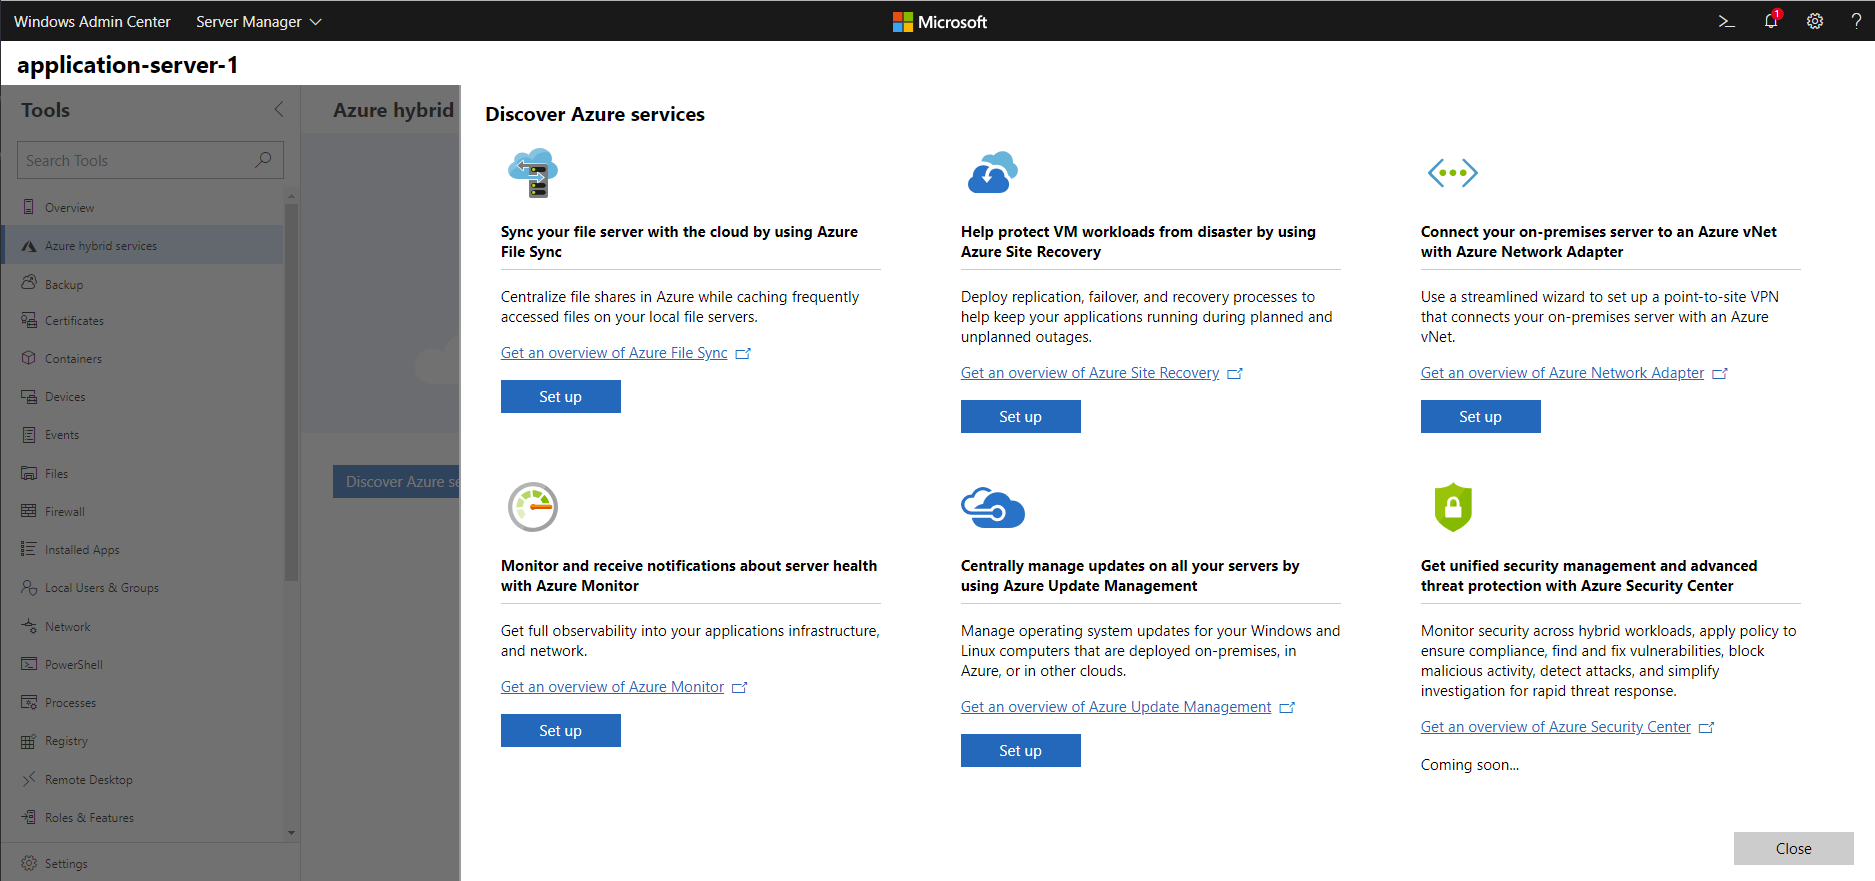
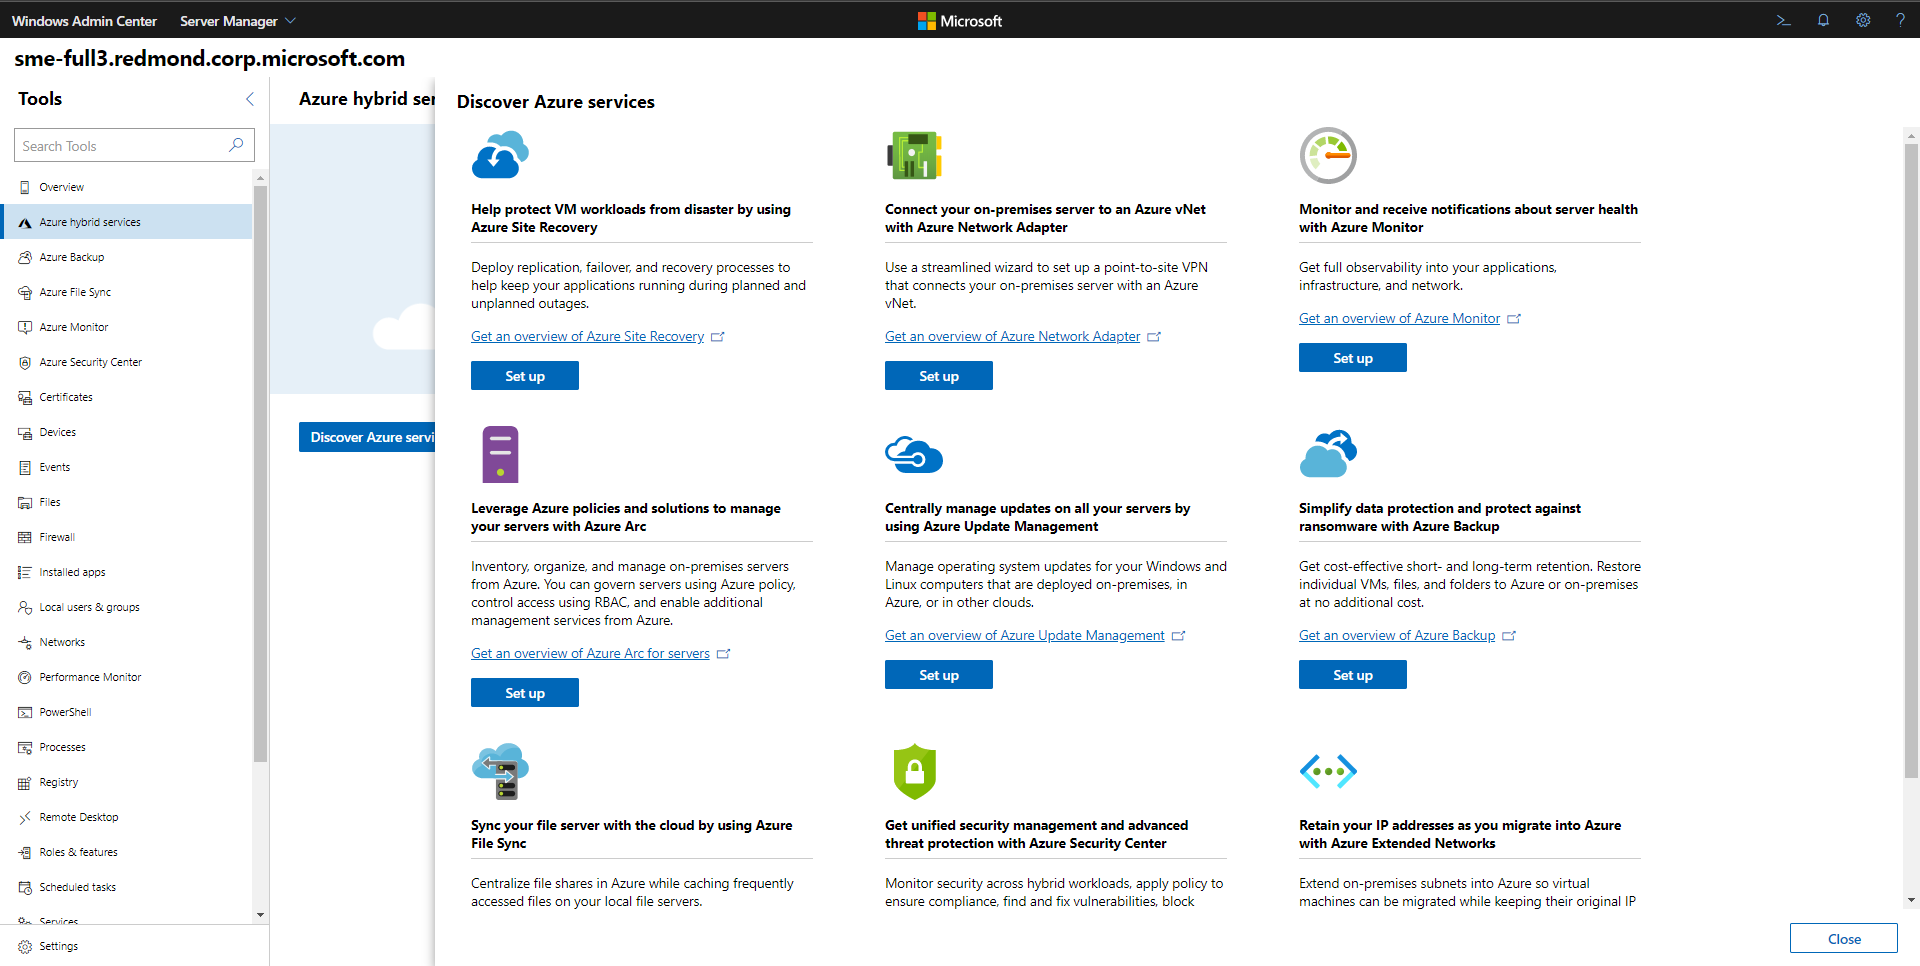
refactored Azure hybrid services page to include new features and restructure. Added details about AAD app permissions needed

diff --git a/WindowsServerDocs/manage/windows-admin-center/azure/index.md b/WindowsServerDocs/manage/windows-admin-center/azure/index.md
@@ -11,81 +11,138 @@ ms.date: 04/12/2019
 ---
 # Connecting Windows Server to Azure hybrid services
 
->Applies to: Windows Server 2019, Windows Server 2016
+You can extend on-premises deployments of Windows Server to the cloud by using Azure hybrid services. These cloud services provide an array of useful functions, both for extending on-premises into Azure, and for centrally managing from Azure.
 
-You can extend on-premises deployments of Windows Server to the cloud by using Azure hybrid services. These cloud services provide an array of useful functions, including the following:
+![Diagram showing arrow from on-premises to cloud for extending on-premises into Azure, and arrow from cloud to on-premises for managing centrally with Azure](../media/azure-services/hybrid-framing.png)
 
-- Protect virtual machines and use cloud-based backup and disaster recovery (HA/DR) with Azure Site Recovery. 
-- Track what’s happening across your applications, network and infrastructure with the help of advanced analytics and machine learning in Azure Monitor. 
-- Simplify network connectivity to Azure with Azure Network Adapter.
-- Keep virtual machines up to date with Azure Update Management.
+Using Azure hybrid services within Windows Admin Center, you can:
 
-Azure hybrid services work with Windows Servers in the following configurations:
+- [Protect virtual machines and use cloud-based backup and disaster recovery (HA/DR)](#back-up-and-protect-your-on-premises-servers-and-vms).  
+- [Extend on-premises capacity with storage and compute in Azure, and simplify network connectivity to Azure](#extend-on-premises-capacity-with-azure).
+- [Centralize monitoring, governance, configuration, and security across your applications, network, and infrastructure with the help of cloud-intelligent Azure management services](#centrally-manage-your-hybrid-environment-from-azure).  
 
-- Stand-alone physical servers and virtual machines (VMs)
-- Clusters, including hyper-converged clusters certified by the [Azure Stack HCI](../../../azure-stack-hci/index.md), and [Windows Server Software-Defined (WSSD)](https://www.microsoft.com/en-us/cloud-platform/software-defined-datacenter) programs
+While you can set up most Azure hybrid services using the Azure portal, a download, and manual configuration, many are integrated directly into Windows Admin Center to provide a simplified setup experience and a server-centric view of the services. Windows Admin Center also provides convenient intelligent hyperlinks to the Azure portal to see connected Azure resources as well as a centralized view of your hybrid environment.
 
-While you can set up most Azure hybrid services using the Azure portal and a download or two, many are integrated directly into Windows Admin Center to provide a simplified setup experience and a server-centric view of the services.
+## Discover integrated services in the Azure hybrid services tool
 
-## Azure hybrid services tool
-
-The Azure hybrid services tool in [Windows Admin Center](../understand/windows-admin-center.md) consolidates all the integrated Azure services into a centralized hub where you can easily discover all the available Azure services that bring value to your on-premises or hybrid environment. 
+The Azure hybrid services tool in [Windows Admin Center](../understand/windows-admin-center.md) consolidates all the integrated Azure services into a centralized hub where you can easily discover all the available Azure services that bring value to your on-premises or hybrid environment.  
 
 ![Screenshot of Windows Admin Center showing the Azure Hybrid Services tool](../media/azure-services/ahs-discover.png)
 
-If you connect to a server with Azure services already enabled, the Azure hybrid services tool serves as a single pane of glass to see all enabled services on that server. You can easily get to the relevant tool within Windows Admin Center, launch out to the Azure portal for deeper management of those Azure services, or read more with documentation at your fingertips. 
+If you connect to a server with Azure services already enabled, the Azure hybrid services tool serves as a single pane of glass to see all enabled services on that server. You can easily get to the relevant tool within Windows Admin Center, launch out to the Azure portal for deeper management of those Azure services, or read more with documentation at your fingertips.  
 
 ![Screenshot of Windows Admin Center showing Azure services that are already installed on the server](../media/azure-services/ahs-dayN.png)
 
 From the Azure hybrid services tool, you can:
+
 - Backup your Windows Server from Windows Admin Center with [Azure Backup](azure-backup.md)
 - Protect your Hyper-V Virtual Machines from Windows Admin Center with [Azure Site Recovery](azure-site-recovery.md)
 - Sync your file server with the cloud, using [Azure File Sync](azure-file-sync.md)
 - Manage operating system updates for all your Windows servers, both on-premises or in the cloud, with [Azure Update Management](azure-update-management.md)
 - Monitor servers, both on-premises or in the cloud, and configure alerts with [Azure Monitor](azure-monitor.md)
+- Apply governance policies to your on-premises servers through Azure Policy using [Azure Arc for servers](https://docs.microsoft.com/azure/azure-arc/servers/overview)
+- Secure your servers and get advanced threat protection with [Azure Security Center](https://docs.microsoft.com/azure/security-center/windows-admin-center-integration)
 - Connect your on-premises servers to an Azure Virtual Network with [Azure Network Adapter](https://aka.ms/WACNetworkAdapter)
+- Make Azure VMs look like your on-premises network with [Azure Extended Network](https://go.microsoft.com/fwlink/?linkid=2109517&clcid=0x409)
 
-## Services for stand-alone servers and VMs
-
-This is the complete list of Azure services that provide functionality to stand-alone servers and VMs:
-
-- **(New) Sync your file server with the cloud by using [Azure File Sync](https://aka.ms/afs)**  
-Sync files on this server with Azure file shares. Keep all your files local or use cloud tiering and cache only the most frequently used files on the server, tiering cold data to the cloud. Data in the cloud can be backed up, eliminating the need to worry about on-premises server backup. Additionally, multi-site-sync can keep a set of files in sync across multiple servers.
-
-- **Add an layer of security to Windows Admin Center by adding [Azure Active Directory (Azure AD)](https://azure.microsoft.com/services/active-directory/) authentication**  
-You can add an additional layer of security to Windows Admin Center by requiring users to authenticate using Azure Active Directory (Azure AD) identities to access the gateway. Azure AD authentication also lets you take advantage of Azure AD’s security features like conditional access and multi-factor authentication.  
-For more info, see [Configure Azure AD authentication for Windows Admin Center.](../configure/user-access-control.md#azure-active-directory)  
-
-- **Protect your Hyper-V virtual machines with [Azure Site Recovery](https://docs.microsoft.com/azure/site-recovery/site-recovery-overview)**  
-You can replicate workloads running on VMs so that your business-critical infrastructure is protected in case of a disaster. Windows Admin Center streamlines setup and the process of replicating your virtual machines on your Hyper-V servers or clusters, making it easier to bolster the resiliency of your environment with Azure Site Recovery’s disaster recovery service.  
-For more info, see [Protect your VMs with Azure Site Recovery and Windows Admin Center](azure-site-recovery.md).
+## Back up and protect your on-premises servers and VMs
 
 - **Back up your Windows servers with [Azure Backup](https://docs.microsoft.com/azure/backup/backup-overview)**  
 You can back up your Windows servers to Azure, helping to protect you from accidental or malicious deletions, corruption, and ransomware.  
 For more info, see [Back up your servers with Azure Backup](azure-backup.md).
 
+- **Protect your Hyper-V virtual machines with [Azure Site Recovery](https://docs.microsoft.com/azure/site-recovery/site-recovery-overview)**  
+You can replicate workloads running on VMs so that your business-critical infrastructure is protected in case of a disaster. Windows Admin Center streamlines setup and the process of replicating your virtual machines on your Hyper-V servers or clusters, making it easier to bolster the resiliency of your environment with Azure Site Recovery’s disaster recovery service.  
+For more info, see [Protect your VMs with Azure Site Recovery and Windows Admin Center](azure-site-recovery.md).
+
+- **Use synchronous or asynchronous block-based replication to a VM in Azure using [Storage Replica](https://docs.microsoft.com/windows-server/storage/storage-replica/storage-replica-overview)**  
+You can configure block-based or volume-based replication on a server-to-server level using Storage Replica to a secondary server or VM. Windows Admin Center allows you to create an Azure VM specifically for your replication target, helping you to right-size and correctly configure storage on a new Azure VM.  
+For more info, see [Server-to-server replication with Storage Replica](https://docs.microsoft.com/windows-server/storage/storage-replica/storage-replica-ui).  
+
+## Extend on-premises capacity with Azure
+
+### Extend storage capacity
+
+- **Sync your file server with the cloud by using [Azure File Sync](https://aka.ms/afs)**  
+Sync files on this server with Azure file shares. Keep all your files local or use cloud tiering to free up space and cache only the most frequently used files on the server, tiering cold data to the cloud. Data in the cloud can be backed up, eliminating the need to worry about on-premises server backup. Additionally, multi-site-sync can keep a set of files in sync across multiple servers.
+For more info, see [Sync your file server with the cloud by using Azure File Sync](azure-file-sync.md).
+
+- **Migrate storage to a VM in Azure using [Storage Migration Service](https://docs.microsoft.com/windows-server/storage/storage-migration-service/overview)**  
+Use the step-by-step tool to inventory data on Windows and Linux servers and then transfer the data to a new Azure VM. Windows Admin Center can create a new Azure VM for the job that is right-sized and correctly configured to receive the data from your source server.  
+For more info, see [Use Storage Migration Service to migrate a server](https://docs.microsoft.com/windows-server/storage/storage-migration-service/migrate-data).
+
+### Extend compute capacity
+
+- **Create a new Azure virtual machine without leaving Windows Admin Center**  
+From the *All Connections* page within Windows Admin Center, go to **Add** and select **Create new** under **Azure VM**. You can even domain-join your Azure VM and configure storage from within this step-by-step creation tool.
+
+- **Leverage Azure to achieve quorum on your failover cluster with [Cloud Witness](https://docs.microsoft.com/windows-server/failover-clustering/deploy-cloud-witness)**  
+Instead of investing in additional hardware to achieve quorum on a 2-node cluster, you can use an Azure storage account to serve as the cluster witness for your failover cluster, or Azure Stack HCI cluster.  
+For more info, see [Deploy a Cloud Witness for a Failover Cluster](https://docs.microsoft.com/windows-server/failover-clustering/deploy-cloud-witness).  
+
+### Simplify network connectivity between your on-premises and Azure networks
+
+- **Connect your on-premises servers to an Azure Virtual Network with [Azure Network Adapter](https://aka.ms/WACNetworkAdapter)**  
+Let Windows Admin Center simplify the setup of a point-to-site VPN from an on-premises server into an Azure virtual network.  
+
+- **Make Azure VMs look like your on-premises network with [Azure Extended Network](https://go.microsoft.com/fwlink/?linkid=2109517&clcid=0x409)**  
+Windows Admin Center can set up a site-to-site VPN and extend your on-premises IP addresses into your Azure vNet to let you more easily migrate workloads into Azure without breaking dependencies on IP addresses.
+
+## Centrally manage your hybrid environment from Azure
+
 - **Monitor and get email alerts for all the servers in your environment with [Azure Monitor for Virtual Machines](https://docs.microsoft.com/azure/azure-monitor/insights/vminsights-overview)**  
-You can use Azure Monitor, also known as Virtual Machines Insights, to monitor server health and events, create email alerts, get a consolidated view of server performance across your environment, and visualize apps, systems, and services connected to a given server.  
+You can use Azure Monitor, also known as Virtual Machines Insights, to monitor server health and events, create email alerts, get a consolidated view of server performance across your environment, and visualize apps, systems, and services connected to a given server. Windows Admin Center can also set up default email alerts for server health performance and cluster health events.  
 For more info, see [Connect your servers to Azure Monitor and configure email notifications](azure-monitor.md).
 
 - **Centrally manage operating system updates for all your Windows Servers with [Azure Update Management](https://docs.microsoft.com/azure/automation/automation-update-management)**  
 You can manage updates and patches for multiple servers and VMs from a single place, rather than on a per-server basis. With Azure Update Management, you can quickly assess the status of available updates, schedule installation of required updates, and review deployment results to verify updates that apply successfully. This is possible whether your servers are Azure VMs, hosted by other cloud providers, or on-premises.  
 For more info, see [Configure servers for Azure Update Management](azure-update-management.md).
 
-- **Connect your on-premises servers to an Azure Virtual Network with an [Azure Network Adapter](https://aka.ms/WACNetworkAdapter)**  
-You can add an Azure Network Adapter to your on-premises servers to help you securely connect the server to an Azure Virtual Network.  
-For more info, see [Configure a point-to-site VPN connection between an on-premises Windows Server and an Azure Virtual Network](https://aka.ms/WACNetworkAdapter).
+- **Improve your security posture and get advanced threat protection with [Azure Security Center](https://docs.microsoft.com/azure/security-center/security-center-intro)**  
+Azure Security Center is a unified infrastructure security management system that strengthens the security posture of your data centers, and provides advanced threat protection across your hybrid workloads in the cloud - whether they're in Azure or not - as well as on premises. With Windows Admin Center, you can easily set up and connect your servers to Azure Security Center.  
+For more info, see [Integrate Azure Security Center with Windows Admin Center (Preview)](https://docs.microsoft.com/azure/security-center/windows-admin-center-integration).  
 
-- **Manage Azure IaaS virtual machines with [Windows Admin Center](manage-azure-vms.md)**  
-You can use Windows Admin Center to manage your Azure VMs as well as on-premises machines. By configuring your Windows Admin Center gateway to connect to your Azure VNet, you can manage virtual machines in Azure using the consistent, simplified tools that Windows Admin Center provides. For more info, see [Configure Windows Admin Center to manage VMs in Azure](manage-azure-vms.md).
+- **Apply policies and ensure compliance across your hybrid environment with [Azure Arc for servers](https://docs.microsoft.com/azure/azure-arc/servers/overview) and [Azure Policy](https://docs.microsoft.com/azure/governance/policy/overview)**  
+Inventory, organize, and manage on-premises servers from Azure. You can govern servers using Azure policy, control access using RBAC, and enable additional management services from Azure.  
 
-## Services for clusters
+## Clusters versus stand-alone servers and VMs
 
-These are the Azure services that provide functionality to clusters as a whole (these aren't all integrated into Windows Admin Center yet):
+Azure hybrid services work with Windows Servers in the following configurations:
+
+- Stand-alone physical servers and virtual machines (VMs)
+- Clusters, including hyper-converged clusters certified by the [Azure Stack HCI](../../../azure-stack-hci/index.md), and [Windows Server Software-Defined (WSSD)](https://www.microsoft.com/cloud-platform/software-defined-datacenter) programs
+
+### Services for stand-alone servers and VMs
+
+This is the complete list of Azure services that provide functionality to stand-alone servers and VMs:
+
+- Backup your Windows Server from Windows Admin Center with [Azure Backup](azure-backup.md)
+- Protect your Hyper-V Virtual Machines from Windows Admin Center with [Azure Site Recovery](azure-site-recovery.md)
+- Sync your file server with the cloud, using [Azure File Sync](azure-file-sync.md)
+- Manage operating system updates for all your Windows servers, both on-premises or in the cloud, with [Azure Update Management](azure-update-management.md)
+- Monitor servers, both on-premises or in the cloud, and configure alerts with [Azure Monitor](azure-monitor.md)
+- Apply governance policies to your on-premises servers through Azure Policy using [Azure Arc for servers](https://docs.microsoft.com/azure/azure-arc/servers/overview)
+- Secure your servers and get advanced threat protection with [Azure Security Center](https://docs.microsoft.com/azure/security-center/windows-admin-center-integration)
+- Connect your on-premises servers to an Azure Virtual Network with [Azure Network Adapter](https://aka.ms/WACNetworkAdapter)
+- Make Azure VMs look like your on-premises network with [Azure Extended Network](https://go.microsoft.com/fwlink/?linkid=2109517&clcid=0x409)
+
+### Services for clusters
+
+These are the Azure services that provide functionality to clusters as a whole:
 
 - [Monitor a hyper-converged cluster with Azure Monitor](../../../storage/storage-spaces/configure-azure-monitor.md)
 - [Protect your VMs with Azure Site Recovery](azure-site-recovery.md)
-- [Deploy a cluster cloud witness](../../../failover-clustering/deploy-cloud-witness.md)
+- [Deploy a cluster cloud witness](../../../failover-clustering/deploy-cloud-witness.md)  
+
+## Other Azure-integrated abilities of Windows Admin Center
+
+- **Add Azure VM connections [Windows Admin Center](manage-azure-vms.md)**  
+You can use Windows Admin Center to manage your Azure VMs as well as on-premises machines. By configuring your Windows Admin Center gateway to connect to your Azure VNet, you can manage virtual machines in Azure using the consistent, simplified tools that Windows Admin Center provides.  
+For more info, see [Configure Windows Admin Center to manage VMs in Azure](manage-azure-vms.md).
+
+- **Add an layer of security to Windows Admin Center by adding [Azure Active Directory (Azure AD)](https://azure.microsoft.com/services/active-directory/) authentication**  
+You can add an additional layer of security to Windows Admin Center by requiring users to authenticate using Azure Active Directory (Azure AD) identities to access the gateway. Azure AD authentication also lets you take advantage of Azure AD’s security features like conditional access and multi-factor authentication.  
+For more info, see [Configure Azure AD authentication for Windows Admin Center.](../configure/user-access-control.md#azure-active-directory)  
 
 ## See also
 

diff --git a/WindowsServerDocs/manage/windows-admin-center/azure/azure-integration.md b/WindowsServerDocs/manage/windows-admin-center/azure/azure-integration.md
@@ -20,8 +20,14 @@ To allow the Windows Admin Center gateway to communicate with Azure to leverage 
 
 ## Register your gateway with Azure
 
-The first time you try to use an Azure integration feature in Windows Admin Center, you will be prompted to register the gateway to Azure. You can also register the gateway by going to the **Azure** tab in Windows Admin Center Settings.
+The first time you try to use an Azure integration feature in Windows Admin Center, you will be prompted to register the gateway to Azure. You can also register the gateway by going to the **Azure** tab in Windows Admin Center Settings. Note that only Windows Admin Center gateway administrators can register the Windows Admin Center gateway with Azure. [Learn more about Windows Admin Center user and administrator permissions](../configure/user-access-control.md#gateway-access-role-definitions).
 
 The guided in-product steps will create an Azure AD app in your directory, which allows Windows Admin Center to communicate with Azure. To view the Azure AD app that is automatically created, go to the **Azure** tab of Windows Admin Center settings. The **View in Azure** hyperlink lets you view the Azure AD app in the Azure portal. 
 
-The Azure AD app created is used for all points of Azure integration in Windows Admin Center, including [Azure AD authentication to the gateway](../configure/user-access-control.md#azure-active-directory).
+The Azure AD app created is used for all points of Azure integration in Windows Admin Center, including [Azure AD authentication to the gateway](../configure/user-access-control.md#azure-active-directory). Windows Admin Center automatically configures the permissions needed to create and manage Azure resources on your behalf:
+
+- Azure Active Directory Graph
+    - Directory.AccessAsUser.All
+    - User.Read
+- Azure Service Management
+    - user_impersonation
